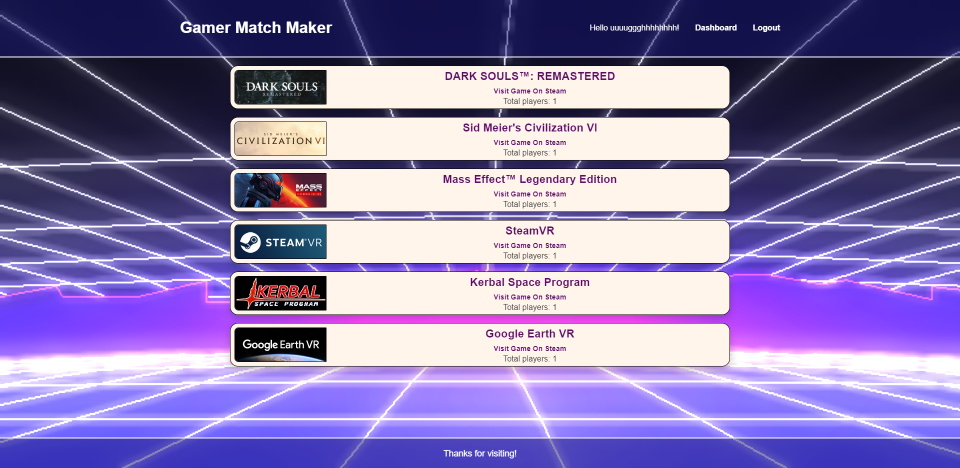
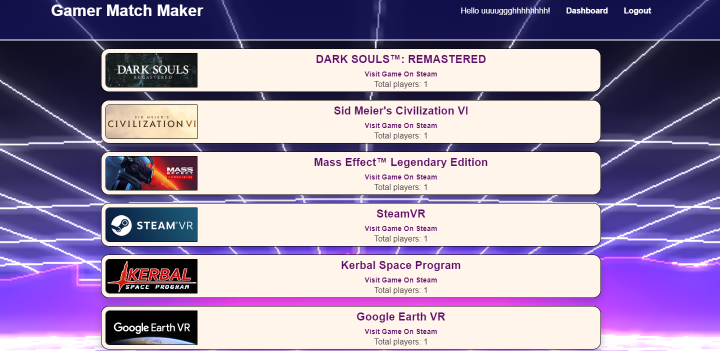
re-styled buttons

diff --git a/src/components/Project/index.js b/src/components/Project/index.js
@@ -58,7 +58,7 @@ const Project = () => {
   ];
 
   return (
-    <div className="row" id="card-container">
+      <div className="row">
       {projects.map((project, i) => (
         <div className="card">
           <div className="card-image waves-effect waves-block waves-light">
@@ -70,20 +70,17 @@ const Project = () => {
             />
           </div>
           <div className="card-content">
-            <span className="card-title activator black-text">
+            <span className="card-title center-align activator black-text">
               {projects[i].title}
               <i className="material-icons right">more_vert</i>
             </span>
-            <p>
-              <a href={projects[i].appLink} className="btn btn-primary">
-                App
-              </a>
-            </p>
-            <p>
-              <a href={projects[i].github} className="btn btn-primary">
-                Github
-              </a>
-            </p>
+            <a href={projects[i].appLink} className="btn btn-primary">
+              App
+            </a>
+
+            <a href={projects[i].github} className="btn btn-primary">
+              Github
+            </a>
           </div>
           <div className="card-reveal">
             <span className="card-title black-text text-darken-4">
@@ -102,7 +99,7 @@ const Project = () => {
           </div>
         </div>
       ))}
-    </div>
+      </div>
   );
 };
 

diff --git a/src/index.css b/src/index.css
@@ -1,41 +1,52 @@
-body{
-    margin: 0;
-    background: #424242;
-    color: white;
-}
-
-
-
-.nav .nav-wrapper {
-    position: relative;
-    height: 100%;
+body {
+  margin: 0;
+  background: #424242;
+  color: white;
 }
 
 #parallax-img {
-    transform: translate3d(-50%, 315.824px, 0px); 
-    opacity: 1;
-    background-size: cover;
-    width: 100%;
+  transform: translate3d(-50%, 315.824px, 0px);
+  opacity: 1;
+  width: 100%;
 }
 
 #about-text {
-    background-color: rgb(97, 97, 97, 0.8);
-    border-radius: 15px;
+  background-color: rgb(97, 97, 97, 0.8);
+  border-radius: 15px;
 }
 
 .btn {
-    background-color: #616161;
-    margin: 1px;
+  background-color: #9932CC;
+  margin: 1px;
+}
+
+
+
+#card-text {
+  color: black;
+}
+
+
+
+i {
+  padding: 8px;
+}
+
+#work {
+    justify-content: space-evenly;
+}
+
+
+.card-image {
+    object-fit: cover;
 }
 
 .card-content {
-    text-align: left !important;
+    flex-direction: column;
+    justify-content: space-between;
 }
 
-#card-text {
-    color: black;
-}
-
-i {
-    padding: 8px;
+.card-container {
+    text-align: left;
+    flex-direction:row;
 }

diff --git a/src/App.js b/src/App.js
@@ -25,8 +25,7 @@ function App() {
           <img
             id="parallax-img"
             src={
-              require(`./images/shapelined-_JBKdviweXI-unsplash.jpg`)
-                .default
+              require(`./images/isaac-quesada-1AyqZcC7zSg-unsplash.jpg`).default
             }
             alt="Unsplashed background img"
           ></img>
@@ -34,10 +33,15 @@ function App() {
       </div>
       <div className="container">
         <Resume></Resume>
+      </div>
+      <div className="container">
         <Work></Work>
       </div>
+      <div>
       <Footer></Footer>
+      </div>
     </div>
+    
   );
 }
 

diff --git a/src/components/Work/index.js b/src/components/Work/index.js
@@ -3,7 +3,7 @@ import Project from '../Project';
 
 function Work () {
     return (
-        <div id="work" className="container col s12 center">
+        <div id="work" className="container center">
           <h3>Work</h3>
           <Project></Project>      
         </div>

diff --git a/src/components/Nav/index.js b/src/components/Nav/index.js
@@ -1,4 +1,4 @@
-import React, { useEffect } from 'react';
+import React from 'react';
 
 function Nav() {
   return (
